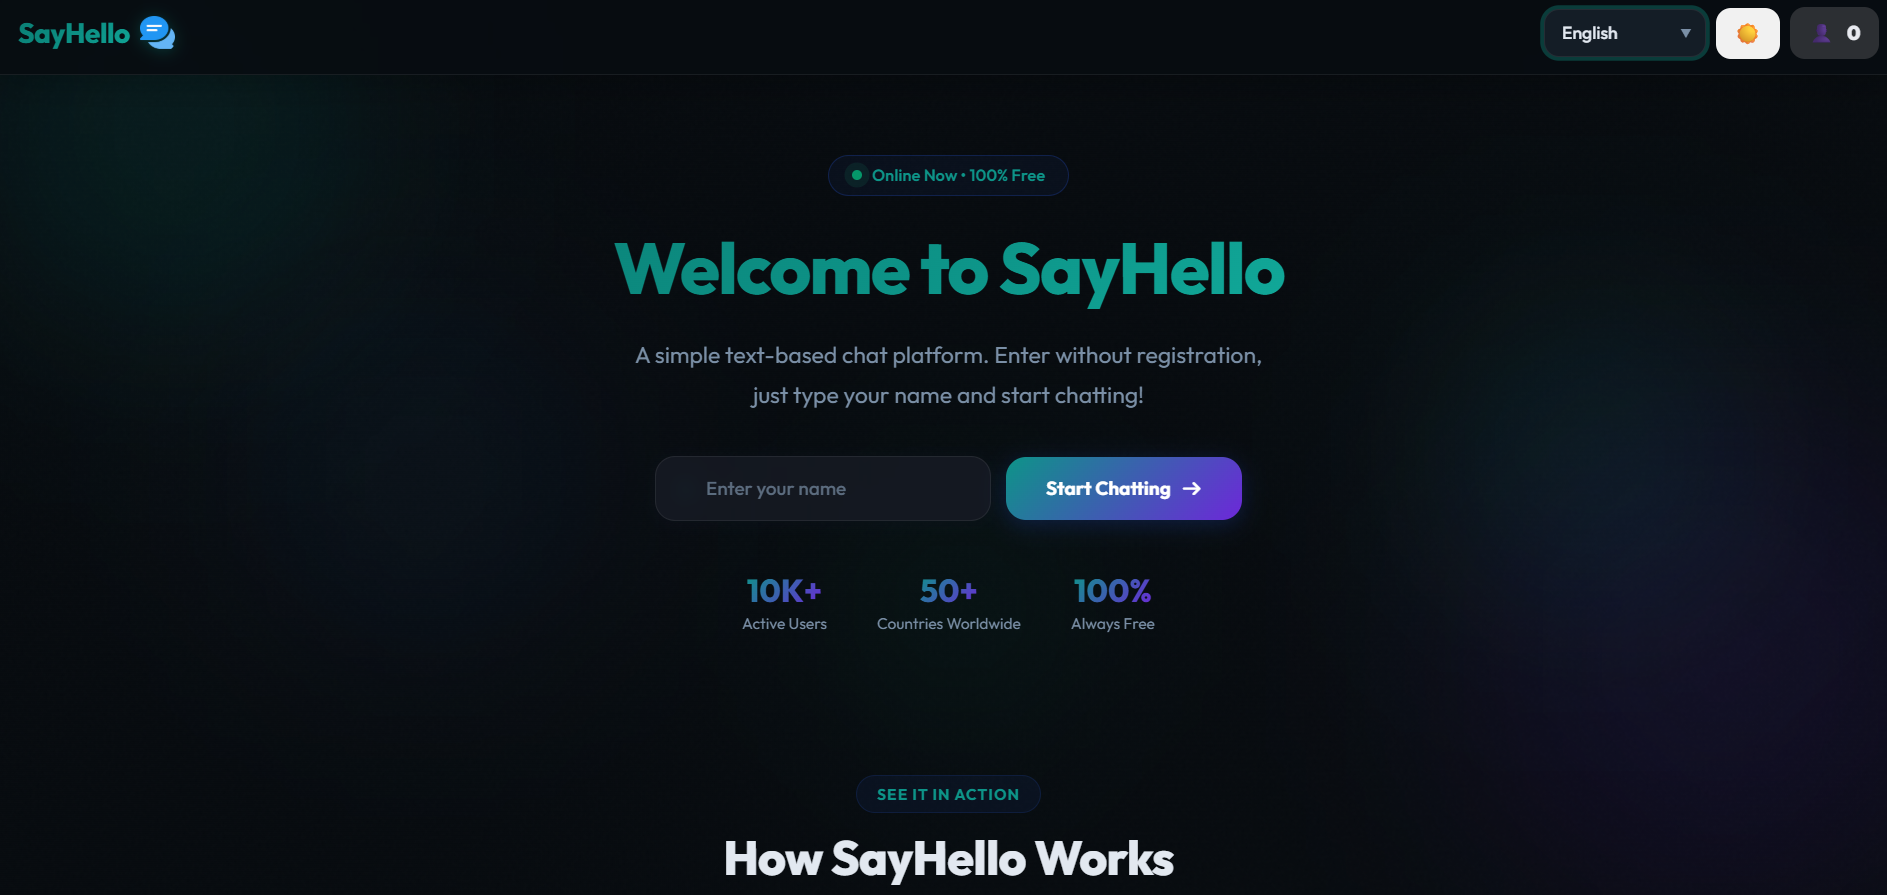
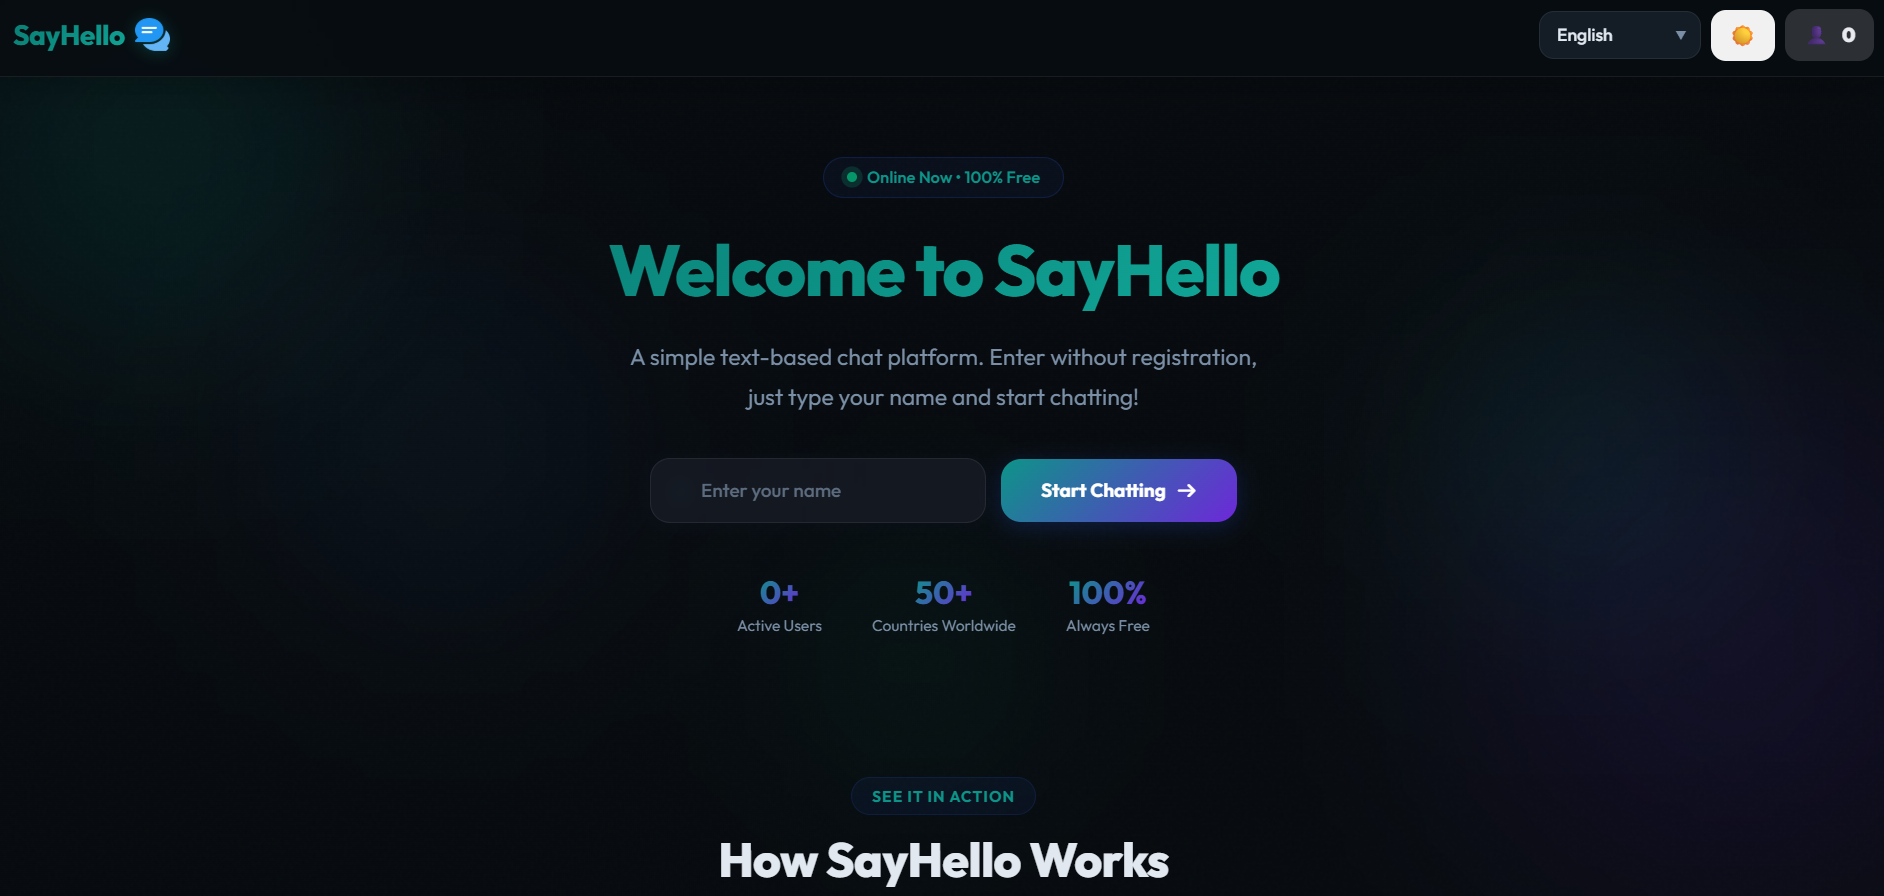
Update Project

diff --git a/index.html b/index.html
@@ -532,20 +532,19 @@
                     </div>
                 </div>
 
+    
                 <div class="contact-item">
                     <div class="contact-icon">
                         <i class="fas fa-envelope"></i>
                     </div>
                     <div class="contact-text">
                         <h3>Email</h3>
-                        <a href="/cdn-cgi/l/email-protection#caaba2a7afaeafa6b9abb3afaefcfbfdf38aada7aba3a6e4a9a5a7"
-                            target="_blank" rel="noopener noreferrer">
-                            <span class="__cf_email__"
-                                data-cfemail="ee8f86838b8a8b829d8f978b8ad8dfd9d7ae89838f8782c08d8183">[email&#160;protected]</span>
+                        <a href="mailto:[email redacted]" target="_blank" rel="noopener noreferrer">
+                            [email redacted]
                         </a>
                     </div>
-
                 </div>
+
                 <div class="contact-item">
                     <div class="contact-icon">
                         <i class="fab fa-github"></i>
@@ -555,6 +554,7 @@
                         <a href="https://github.com/AhmedElsayed6179" target="_blank">github.com/AhmedElsayed6179</a>
                     </div>
                 </div>
+
                 <div class="contact-item">
                     <div class="contact-icon">
                         <i class="fab fa-linkedin"></i>
@@ -566,6 +566,7 @@
                             linkedin.com/in/ahmed-mohamed</a>
                     </div>
                 </div>
+                
                 <div class="contact-item">
                     <div class="contact-icon">
                         <i class="fas fa-map-marker-alt"></i>